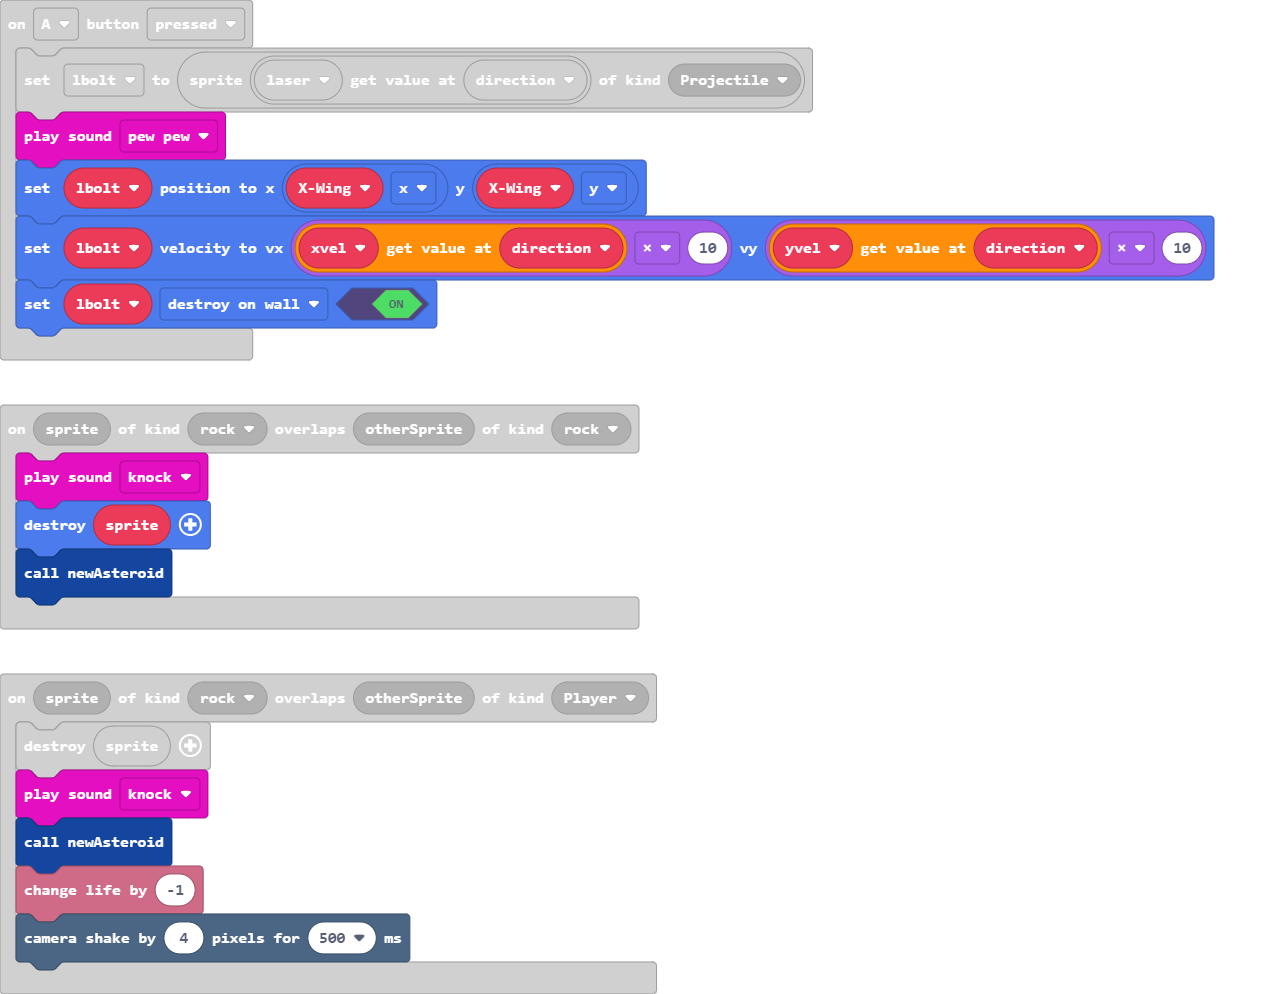
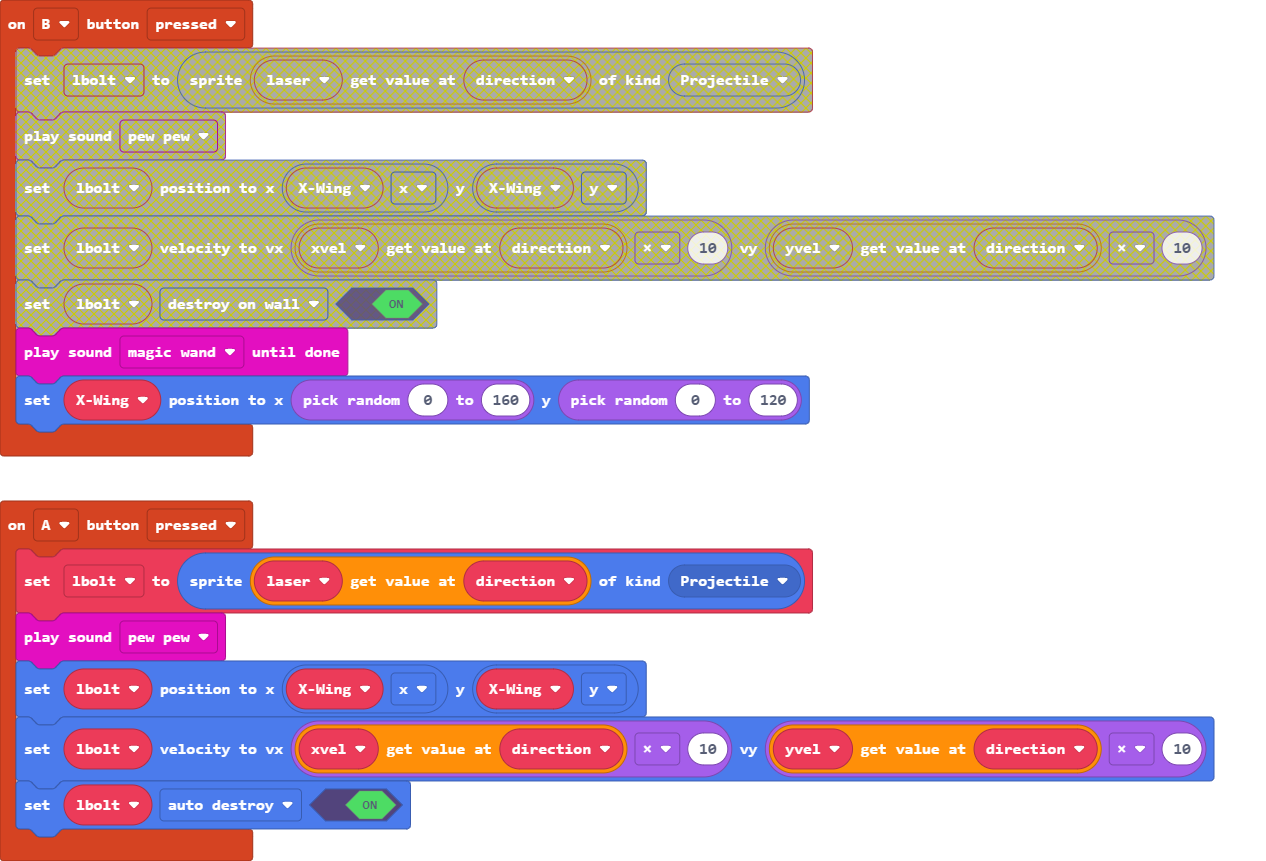
Update main.blocks, main.ts

diff --git a/main.ts b/main.ts
@@ -4,6 +4,10 @@ namespace SpriteKind {
 controller.up.onEvent(ControllerButtonEvent.Pressed, function () {
     fire = 40
 })
+controller.B.onEvent(ControllerButtonEvent.Pressed, function () {
+    music.magicWand.playUntilDone()
+    XWing.setPosition(randint(0, 160), randint(0, 120))
+})
 sprites.onOverlap(SpriteKind.rock, SpriteKind.rock, function (sprite, otherSprite) {
     music.knock.play()
     sprite.destroy()
@@ -14,7 +18,7 @@ controller.A.onEvent(ControllerButtonEvent.Pressed, function () {
     music.pewPew.play()
     lbolt.setPosition(XWing.x, XWing.y)
     lbolt.setVelocity(xvel[direction] * 10, yvel[direction] * 10)
-    lbolt.setFlag(SpriteFlag.DestroyOnWall, true)
+    lbolt.setFlag(SpriteFlag.AutoDestroy, true)
 })
 controller.left.onEvent(ControllerButtonEvent.Pressed, function () {
     direction = direction - 1
